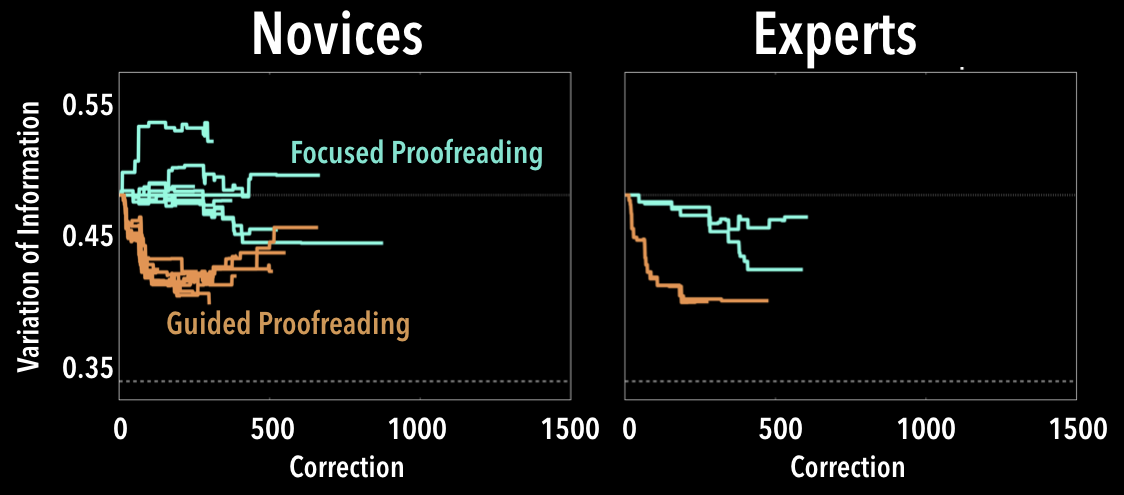
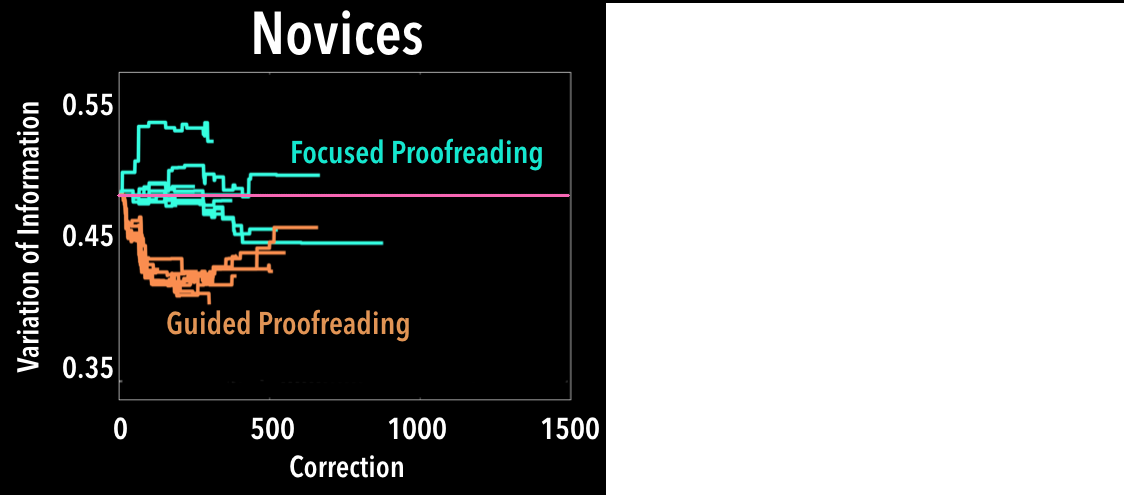
New stuff.

diff --git a/slides/UMassBoston/cnnlength/index.html b/slides/UMassBoston/cnnlength/index.html
@@ -164,8 +164,8 @@
 
         document.getElementById('cnn_result'+which).innerHTML = 'CNN: '  + p_res + '';
 
-        document.getElementById('err_result'+which).innerHTML = 'Error: '  + (Math.abs(p_res-ground_truth)/60.0).toFixed(3) + '';
-
+        // document.getElementById('err_result'+which).innerHTML = 'Error: '  + (Math.abs(p_res-ground_truth)/60.0).toFixed(3) + '';
+        document.getElementById('err_result'+which).innerHTML = 'Error: '  + Math.abs(p_res-ground_truth) + '';
 
       };
 

diff --git a/slides/UMassBoston/index.html b/slides/UMassBoston/index.html
@@ -1,0 +1,3 @@
+Find slides on github: <a href='https://github.com/haehn/danielhaehn.com/tree/gh-pages/slides/UMassBoston'>https://github.com/haehn/danielhaehn.com/tree/gh-pages/slides/UMassBoston</a>.
+
+Sayonara!

diff --git a/slides/UMassBoston/a.md b/slides/UMassBoston/a.md
@@ -240,6 +240,19 @@ Note: between subjects user study<br><br>from all walks of life<br><br>proofread
 
 ---
 
+<img src='vi/VI.001.png' style='position:fixed;top:0px;left:0px;z-index:0'>
+
+<img src='vi/VI.002.png' class='myimg fragment fade-in' data-fragment-index="2" style='position:fixed;top:0px;left:0px;z-index:1'>
+
+<img src='vi/VI.003.png' class='myimg fragment fade-in' data-fragment-index="3" style='position:fixed;top:0px;left:0px;z-index:2'>
+
+<img src='vi/VI.004.png' class='myimg fragment fade-in' data-fragment-index="4" style='position:fixed;top:0px;left:0px;z-index:3'>
+
+Note: so there is a performance gap between the brain and AI<br><br>I am big fan of micro-scale connectomics.
+
+
+---
+
 <img src='dojo_results/vi3.png' border=0 style='border:none;'>
 
 <span class='fragment fade-in' data-fragment-index="1" style='position:absolute;color:hotpink;top:440px;right:100px;'>Baseline</span>
@@ -308,9 +321,11 @@ Note: another user study<br><br>again novices from the street<br><br>same datase
 
 ---
 
-<img src='gp_results/vi.png' border=0 style='border:none;'>
+<img src='gp_results/vi.png' border=0 style='border:none;position:fixed;top:150px;left:0px;z-index:0'>
 
-<span class='fragment fade-in' data-fragment-index="1" style='position:absolute;color:hotpink;top:150px;right:65px;'>Baseline</span>
+<span class='fragment fade-in' data-fragment-index="1" style='position:absolute;color:hotpink;top:-50px;left:480px;'>Baseline</span>
+
+<img src='gp_results/vi2.png' class='fragment fade-in' data-fragment-index="3" border=0 style='border:none;position:fixed;top:150px;left:0px;z-index:2'>
 
 Note: again VI: the lower, the better, on the x-axis is the corrections over time<br><br>novices almost as good as experts<br><br>baseline is the input segmentation<br><br>since we used the same data as before, we can also compare against interactive proofreading with dojo
 
@@ -326,7 +341,7 @@ Note: All novices here.<br><br>Dojo is fully interactive and GP is just so much 
 
 <span class='fragment fade-in' data-fragment-index="1">Proofreading will always be necessary</span>
 <br><br>
-<span class='fragment fade-in' data-fragment-index="2">Humans will be the bottleneck</span>
+<span class='fragment fade-in' data-fragment-index="2">Human labor will be the bottleneck</span>
 <br><br>
 <span class='fragment fade-in' data-fragment-index="3">Minimizing manual work is the goal</span>
 <br><br>
@@ -345,6 +360,26 @@ Note: I would like to now move from bottom-up neurobiology studies<br><br>to top
 
 ---
 
+<img src='cleveland_mcgill/paper.png'><br><span style='font-size:20px;position:absolute;left:60px'>Cleveland and McGill, Journal of the American Statistical Association 1984</span>
+
+<div style='position: fixed;width:100%;height:100%;z-index:2;background:rgba(0,0,0,0.8);top:0px;' class='myimg fragment fade-in' data-fragment-index="1"><br><br><br><br>
+
+<img src='cleveland_mcgill/just_angle_and_line.png' class='myimg fragment fade-in' data-fragment-index="2" style='position:fixed;top:200px;left:200px;z-index:1'>
+
+</div>
+
+Note: we do that by studying experiments of human perception by Cleveland..
+
+---
+
+We replicate Cleveland and McGill's 1984 experiments<br><br>with Convolutional Neural Networks.
+
+Note: Instead of human perception, we study machine perception<br><br>
+by replicating Cleveland and McGill's 1984 experiments with<br><br>
+Convolutional Neural Networks
+
+---
+
 <iframe id='cnn0' style='position:fixed; top:0px; left:0px; width:100%; height:100%;' data-src='cnnangle/'></iframe>
 
 <span style='position:absolute;z-index:1000;font-size:20px;top:400px;left:100px;width:700px'>D. Haehn, J. Tompkin, H. Pfister. <b>Evaluating 'Graphical Perception' with CNNs.</b> <i>IEEE Transactions on Visualization and Computer Graphics (IEEE Vis)</i>, 2018.</span>
@@ -358,21 +393,6 @@ Note: For instance, here I can draw an angle.<br><br>and the VGG19 network estim
 <span style='position:absolute;z-index:1000;font-size:20px;top:400px;left:100px;width:700px'>D. Haehn, J. Tompkin, H. Pfister. <b>Evaluating 'Graphical Perception' with CNNs.</b> <i>IEEE Transactions on Visualization and Computer Graphics (IEEE Vis)</i>, 2018.</span>
 
 Note: Here we draw two lines.<br><br>left: thin line<br><br>right: thick one<br><br>the network estimates the length
-
----
-
-<img src='cleveland_mcgill/paper.png'><br><span style='font-size:20px;position:absolute;left:60px'>Cleveland and McGill, Journal of the American Statistical Association 1984</span>
-
-
-Note: experiments of human perception when it comes to perceiving visualizations such as pie charts or bar charts
-
----
-
-We replicate Cleveland and McGill's 1984 experiments<br><br>with Convolutional Neural Networks.
-
-Note: Instead of human perception, we study machine perception<br><br>
-by replicating Cleveland and McGill's 1984 experiments with<br><br>
-Convolutional Neural Networks
 
 ---
 
@@ -443,8 +463,8 @@ Note: angle<br>length..<br>sooo we let CNNs regress these generated images with 
 ---
 
 <img src='cleveland_mcgill/angle_inv.png' style='width:400px;float:left;margin-left:100px'>
-<span style='position:absolute;font-size:40px;margin-top:60px'>~78&deg;</span>
-<span style='position:absolute;font-size:65px;margin-top:120px'>0.87</span>
+<span style='position:absolute;font-size:40px;margin-top:60px'>~77&deg;</span>
+<span style='position:absolute;font-size:65px;margin-top:120px'>0.856</span>
 
 
 Note: angles are always 0..90 degrees<br>this angle is roughly 78 degrees<br><br>mapped to 0..1 for 0..90 degrees, this yields 0.87
@@ -538,6 +558,12 @@ Note: four different network configurations<br><br>all of them use the MLP at th
 Note: we ran all network configurations with fixed parameters<br><br>monte carlo cross validation with 12 runs per experiment
 
 ---
+<span class='fragment fade-in' data-fragment-index="1">Networks vs. Humans</span>
+<br><br>
+<span class='fragment fade-in' data-fragment-index="2" style='font-size:16px'>Data from MTurk, Cleveland and McGill 1984, Heer and Bostock 2010</span>
+<br><br>
+
+---
 
 
 <img src='cleveland_mcgill/results/elementary_plots/plots.001.png' class='myimg' style='position:fixed;top:100px;left:0px;z-index:0;'>
@@ -623,13 +649,17 @@ Note: out-of-distribution samples<br><br>will we ever achieve such systems?<br><
 
 ---
 
+Future Work
+
+---
+
 <img src='the_gap/perception.009.png' class='myimg' style='position:fixed;top:0px;left:0px;z-index:0'>
 
 <img src='the_gap/perception.010.png' class='myimg fragment fade-in' data-fragment-index="2" style='position:fixed;top:0px;left:0px;z-index:1'>
 
 
 Note: So today I spoke about some advancements in regards to better understanding the brain and AI.<br><br>In reality, the gap between the two is very large<br><br>and we are just at the beginning in both fields.<br><br>
-massive research efforts are on the way and I am happy to contribute a little bit.<br><br>
+massive research efforts are on the way and I am happy to contribute my share.<br><br>
 before I take questions, I would like to...
 
 ---
@@ -668,8 +698,8 @@ Thank you!
 
 <img src='thankyou/octocat.png' style='width:200px'><br><br>
 
-<a href='https://danielhaehn.com/slides/MIT'>danielhaehn.com/slides/UmassBoston</a><br><br>
-<small><a href='http://ratemytalk.com/9HV29M'>RateMyTalk.com/5Z22KV</a></small>
+<a href='https://danielhaehn.com/slides/UmassBoston'>danielhaehn.com/slides/UmassBoston</a><br><br>
+<small><a href='http://ratemytalk.com/5Z22KV'>RateMyTalk.com/5Z22KV</a></small>
 
 Note: Again, all my stuff is on github<br><br>the slides are on my website<br><br>and please rate my talk :)
 
